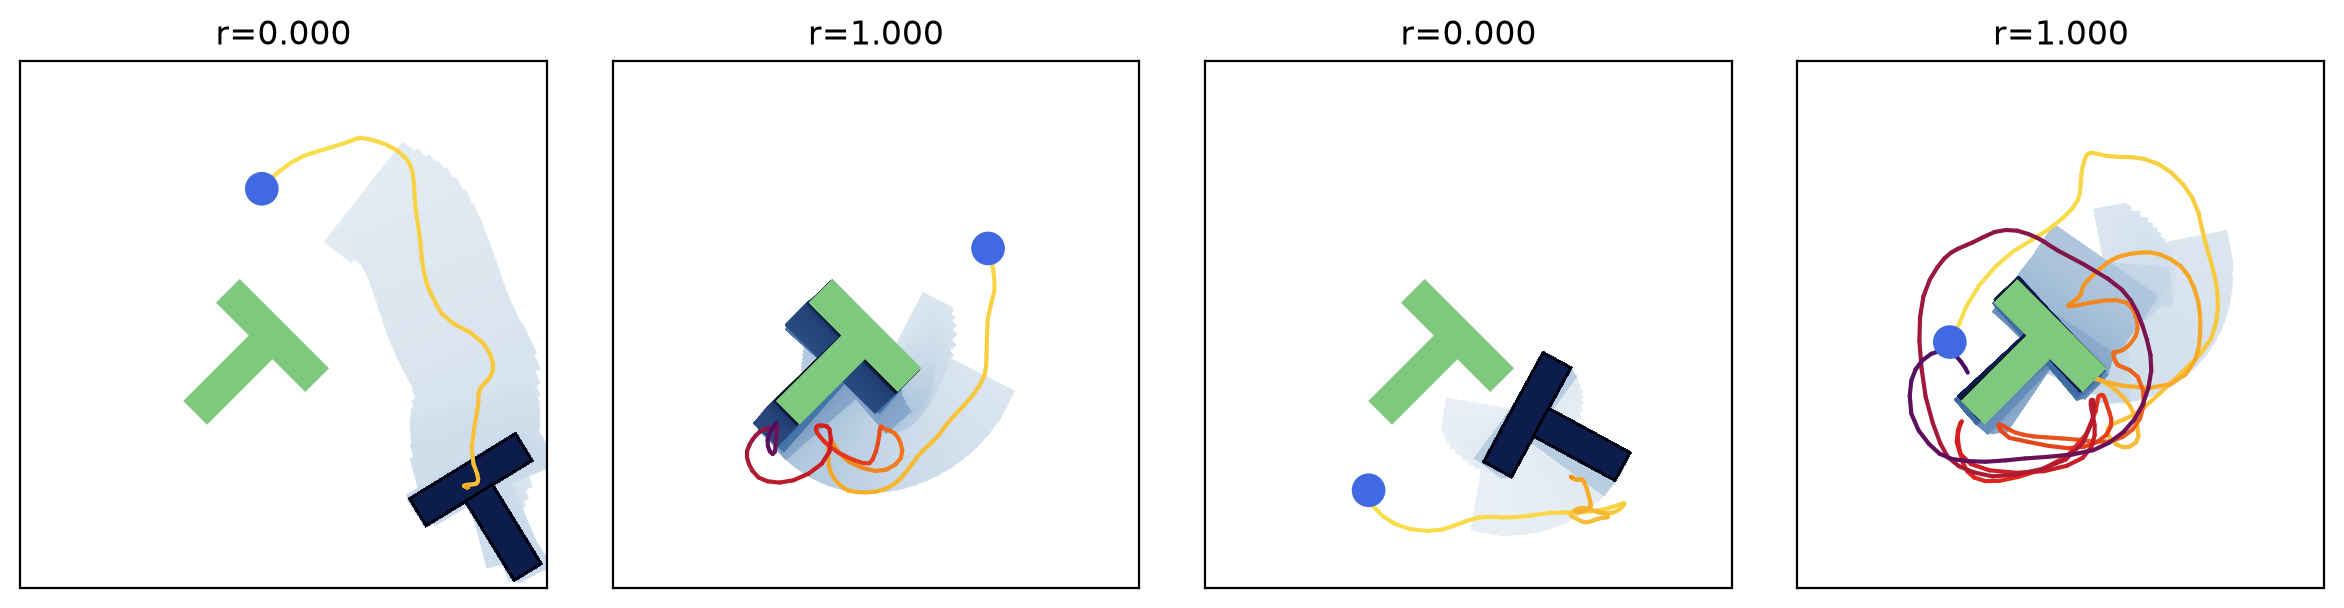
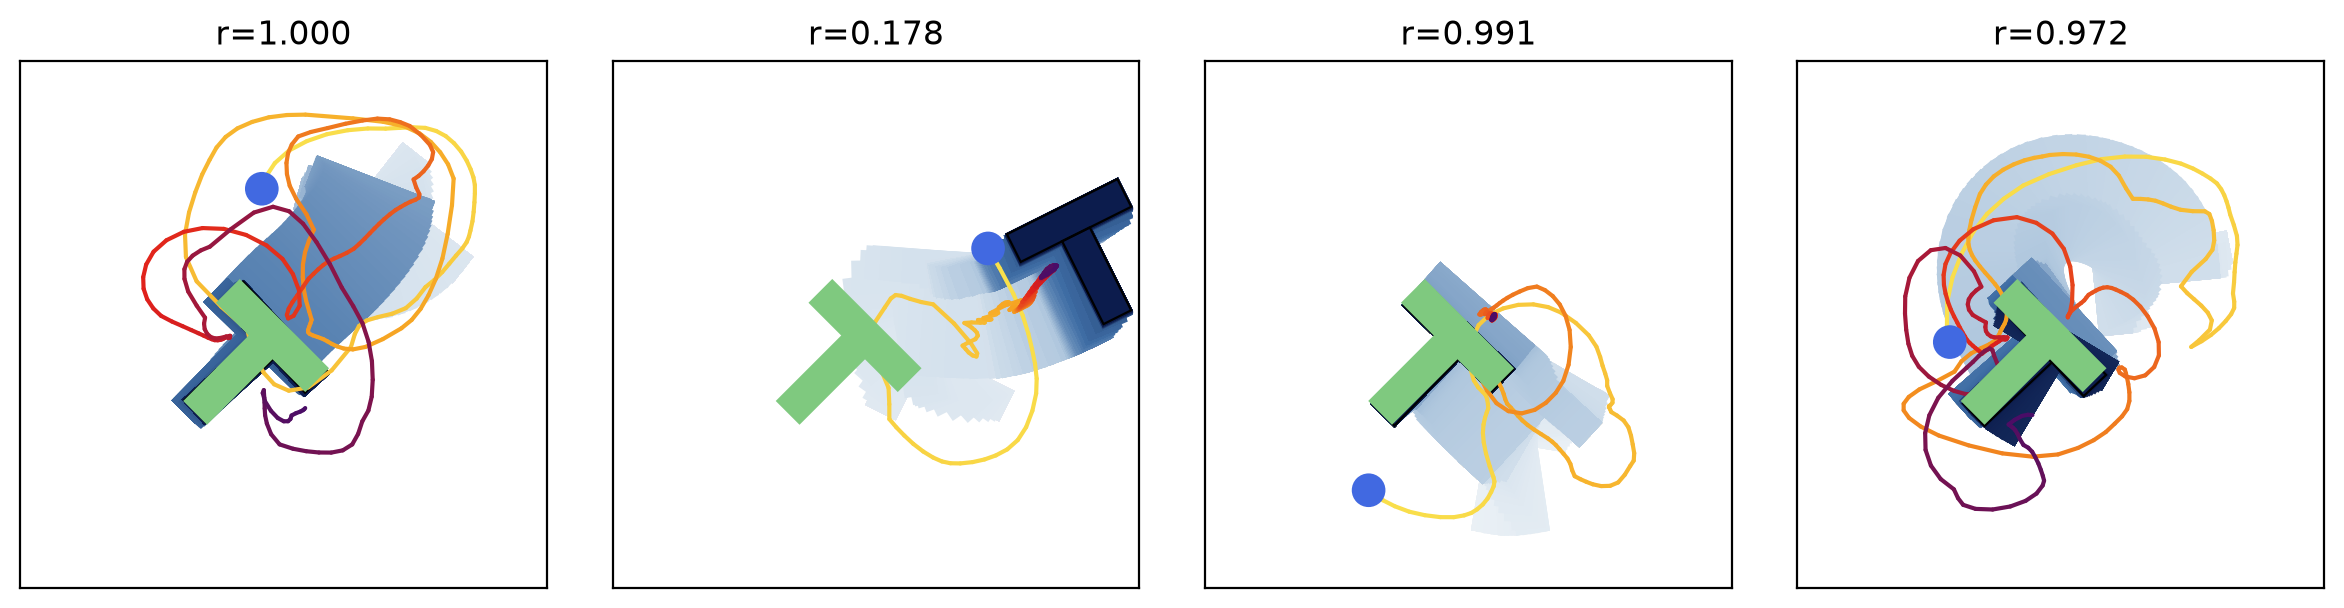
Ran Push-T ablation over different action horizons.

diff --git a/ebp/networks/proposal_network.py b/ebp/networks/proposal_network.py
@@ -4,7 +4,7 @@ from typing import Protocol
 import numpy as np
 import torch
 import torch.nn as nn
-from torch.distributions import LowRankMultivariateNormal, Normal
+from torch.distributions import Normal
 
 from .models import MLP, MLPConfig, ConvMLP, ConvMLPConfig
 
@@ -21,39 +21,20 @@ class ProposalNetwork(Protocol):
 
 @dataclasses.dataclass(frozen=True)
 class GaussianProposalConfig:
-    """Config for the Gaussian proposal q_xi(y | x)."""
+    """Config for the diagonal-Gaussian proposal q_xi(y | x)."""
 
     obs_dim: int
     act_dim: int
     hidden_dim: int = 256
     hidden_depth: int = 2
     log_std_init: float = 0.0
-    cov_rank: int = 0
-    """Rank of a low-rank covariance term. 0 (default) = diagonal covariance.
-
-    With action chunking the action is a whole trajectory, whose dimensions are
-    strongly correlated: for Push-T at prediction_horizon=16 (a 32-D action) the
-    mean |off-diagonal correlation| is 0.49 and 90%/99% of the variance lives in
-    just 2/6 of the 32 dimensions. A diagonal Gaussian assumes independence, so
-    it over-covers that manifold by ~85 nats of entropy and draws negatives that
-    are trivially far from the data -- the contrastive loss then saturates (the
-    chunked IBC/R-NCE train loss collapses toward 0) and stops shaping the
-    energy where it matters. A rank-k term Sigma = diag + U U^T captures the
-    correlated directions (fitting real chunks ~60 nats/sample better at k=4),
-    so negatives stay on-manifold and hard. This is the cheap closed-form
-    stand-in for the normalizing-flow proposal Singh et al. use.
-    """
 
 
 class GaussianProposal(nn.Module):
-    """A learned Gaussian proposal q_xi(y | x): state-conditioned mean mu(x) from
-    an MLP, plus a single GLOBAL learnable covariance shared across all x. This
-    is the stable-baselines3 ``DiagGaussianDistribution`` + actor pattern.
-
-    With ``cov_rank=0`` the covariance is diagonal (log_std only). With
-    ``cov_rank=k>0`` it is diag(std^2) + U U^T for a learnable (act_dim, k)
-    factor U, which lets the proposal model correlations between action
-    dimensions -- see GaussianProposalConfig.cov_rank.
+    """A learned diagonal-Gaussian proposal q_xi(y | x): state-conditioned mean
+    mu(x) from an MLP, plus a single GLOBAL learnable log_std (one per action
+    dim), shared across all x. This is the stable-baselines3
+    ``DiagGaussianDistribution`` + actor pattern.
 
     Satisfies the ``ProposalNetwork`` Protocol (``sample``) and additionally
     exposes ``log_prob`` so the R-NCE trainer can score candidates.
@@ -62,16 +43,9 @@ class GaussianProposal(nn.Module):
     def __init__(self, config: GaussianProposalConfig) -> None:
         super().__init__()
         self.act_dim = config.act_dim
-        self.cov_rank = config.cov_rank
         self.mlp = MLP(MLPConfig(config.obs_dim, config.hidden_dim, config.act_dim, config.hidden_depth))
 
         self.log_std = nn.Parameter(torch.ones(self.act_dim) * config.log_std_init)
-        if self.cov_rank > 0:
-            # Small init so the proposal starts near the diagonal solution and
-            # grows the correlated directions only as the MLE step wants them.
-            self.cov_factor = nn.Parameter(
-                torch.randn(self.act_dim, self.cov_rank) * 0.01
-            )
 
     @property
     def mean_net(self) -> nn.Module:
@@ -80,23 +54,14 @@ class GaussianProposal(nn.Module):
         the whole action range, quietly widening the negative sampler)."""
         return self.mlp
 
-    def _distribution(self, mean: torch.Tensor):
-        """Gaussian over the action, batched over `mean`'s leading dims."""
-        std = self.log_std.exp()
-        if self.cov_rank > 0:
-            return LowRankMultivariateNormal(
-                loc=mean,
-                cov_factor=self.cov_factor.expand(*mean.shape[:-1], self.act_dim, self.cov_rank),
-                cov_diag=(std ** 2).expand_as(mean),
-            )
-        return Normal(mean, std)
-
     def sample(self, x: torch.Tensor, num_samples: int) -> torch.Tensor:
         """Draw `num_samples` proposal samples per row of x.
         Returns (B, num_samples, act_dim)  <-- MUST match _sample_uniform's shape.
         """
         mean = self.mlp(x)
-        samples = self._distribution(mean).rsample(sample_shape=(num_samples,))
+        std = self.log_std.exp()
+        dist = Normal(mean, std)
+        samples = dist.rsample(sample_shape=(num_samples,))
         return samples.permute(1, 0, 2).detach()
 
     def log_prob(self, x: torch.Tensor, y: torch.Tensor) -> torch.Tensor:
@@ -104,10 +69,6 @@ class GaussianProposal(nn.Module):
         y:  (B, N, act_dim)   ->  returns (B, N).
         """
         mean = self.mlp(x).unsqueeze(1)  # add in dimension for broadcasting
-        if self.cov_rank > 0:
-            # LowRankMultivariateNormal is multivariate: it already sums over the
-            # event (action) dim, so no trailing .sum(-1) here.
-            return self._distribution(mean.expand_as(y)).log_prob(y)
         std = self.log_std.exp()
         dist = Normal(mean, std)
         log_prob = dist.log_prob(y)

diff --git a/plot_push_t.py b/plot_push_t.py
@@ -1,35 +1,6 @@
 '''
 Roll out a trained Push-T policy in a few initial conditions and visualize the
 trajectories as one row of panels, saved to images/push_t_<method>.png.
-
-python plot_push_t.py --method ibc --checkpoint models/ibc_push_t_train.pt \
-    --stochastic_optimizer langevin --inference_samples 1024
-
-Styled after the rollout visualizations in Singh et al. (arXiv:2309.05803),
-Table 5: the desired goal configuration is filled green, and the block (with
-the agent circle) is drawn at every timestep, color coded by time from the
-lightest shade at the beginning of the trajectory to the darkest at the end.
-
-With --multimodal, instead mirrors Diffusion Policy's Figure 3 (multimodal
-behavior): a single symmetric initial condition where the block already
-overlaps the goal along the block's own symmetry axis (a short push, no
-rotation) and the agent starts centered above the tip of both Ts. The agent
-must go around the block on either the left or the right, a perfectly
-symmetric two-mode choice (--seeds is ignored). The policy is rolled out
---num_rollouts times for --multimodal_steps steps, overlaying the block poses
-with lightest-to-darkest time shading and the agent trajectories as
-yellow-orange-red-purple heatmap lines; the initial agent position is marked
-with a blue dot. Stochastic (IBC) inference spreads over behavior modes while
-a deterministic MSE policy traces a single path. Saved to
-images/push_t_<method>_multimodal.png.
-
-Rollouts are closed loop at 10 Hz for up to --max_steps steps (Diffusion
-Policy's eval budget), stopping early on success (95% goal coverage). The
-observation history is left-padded by repeating the first observation, matching
-Diffusion Policy's eval-time stacking; training windows instead drop the first
-sequence_length - 1 steps of each episode, so only a rollout's first step is
-slightly off-distribution. IBC inference runs the stochastic optimizer once per
-step; on CPU the langevin optimizer is roughly 10x slower than on GPU.
 '''
 
 import argparse
@@ -53,19 +24,16 @@ from train import (
 
 IMAGES_DIR = os.path.join(os.path.dirname(os.path.abspath(__file__)), "images")
 
-# The T block's two rectangles in its local frame, from PushTEnv.add_tee
-# (scale=30, length=4). World frame: position + R(angle) @ v, y-axis down.
+
 TEE_BAR = np.array([(-60.0, 0.0), (60.0, 0.0), (60.0, 30.0), (-60.0, 30.0)])
 TEE_STEM = np.array([(-15.0, 30.0), (15.0, 30.0), (15.0, 120.0), (-15.0, 120.0)])
 AGENT_RADIUS = 15.0
 
 GOAL_COLOR = "#7fc97f"
-# Block-pose shades: near-lightest blue-grey at the beginning, dark blue at the
-# end, so the block's transition over the trajectory is visible.
+
 TIME_CMAP = LinearSegmentedColormap.from_list(
     "time", ["#eef3f7", "#aec6dd", "#3f6ea5", "#0c1c4d"]
 )
-# Pusher-path heatmap (Diffusion Policy Fig. 3): yellow -> orange -> red -> purple.
 PUSHER_CMAP = LinearSegmentedColormap.from_list(
     "pusher", ["#f9e04c", "#f6a020", "#e0201b", "#4a0d67"]
 )
@@ -86,14 +54,7 @@ def multimodal_initial_state(
     push_distance: float = 40.0,
     agent_offset: float = 30.0,
 ) -> np.ndarray:
-    """Symmetric initial condition for the multimodality figure.
 
-    The block sits push_distance below the goal along its own symmetry axis at
-    the goal's angle, so it already overlaps the goal and reaching it is a
-    short straight push with no rotation. The agent starts centered above the
-    tip of both Ts (past the top of the bar) and must go around the block on
-    either side to push it up to the goal.
-    """
     x, y, theta = goal_pose
     rotation = np.array(
         [[np.cos(theta), -np.sin(theta)], [np.sin(theta), np.cos(theta)]]
@@ -316,7 +277,10 @@ if __name__ == "__main__":
 
     fig.tight_layout()
     suffix = "_multimodal" if args.multimodal else ""
-    plot_path = os.path.join(IMAGES_DIR, f"push_t_{args.method}{suffix}.png")
+    # Include the action horizon so figures for different Tp/Ta don't overwrite
+    # each other (Tp=1 keeps the original unsuffixed filenames).
+    horizon = "" if args.prediction_horizon == 1 else f"_p{args.prediction_horizon}a{args.action_horizon}"
+    plot_path = os.path.join(IMAGES_DIR, f"push_t_{args.method}{horizon}{suffix}.png")
     fig.savefig(plot_path, format="png", dpi=200, bbox_inches="tight")
     plt.close(fig)
     print(f"Saved plot to images/{os.path.basename(plot_path)}")

diff --git a/train.py b/train.py
@@ -175,7 +175,7 @@ def load_model(
 
 
 def load_proposal(task: str, sequence_length: int = 2, coord_conv: bool = False,
-                  prediction_horizon: int = 1, cov_rank: int = 0):
+                  prediction_horizon: int = 1):
     """Build the diagonal-Gaussian proposal q_xi(y | x) for R-NCE, sized per task.
 
     Vector-observation tasks (push_t, make_moons) get an MLP-mean GaussianProposal.
@@ -203,8 +203,7 @@ def load_proposal(task: str, sequence_length: int = 2, coord_conv: bool = False,
         raise ValueError("Unsupported task: `{}`".format(task))
 
     config = GaussianProposalConfig(obs_dim=obs_dim, act_dim=action_dim,
-                                    hidden_dim=256, hidden_depth=2, log_std_init=0.0,
-                                    cov_rank=cov_rank)
+                                    hidden_dim=256, hidden_depth=2, log_std_init=0.0)
     return GaussianProposal(config)
 
 
@@ -334,16 +333,6 @@ if __name__ == "__main__":
         "R-NCE value in load_stochastic_optimizer when unset).",
     )
     parser.add_argument(
-        "--cov_rank",
-        type=int,
-        default=0,
-        help="R-NCE proposal covariance rank. 0 (default) = diagonal. k>0 uses "
-        "diag + U U^T with U of rank k, letting the proposal model correlations "
-        "between action dimensions -- worth ~60 nats/sample on Push-T action "
-        "chunks at k=4. Checkpoints get an _r<k> suffix so they coexist with "
-        "the diagonal ones. See GaussianProposalConfig.cov_rank.",
-    )
-    parser.add_argument(
         "--l2_weight",
         type=float,
         default=0.0,
@@ -425,7 +414,6 @@ if __name__ == "__main__":
         proposal = load_proposal(
             args.task, sequence_length=args.sequence_length,
             coord_conv=args.coord_conv, prediction_horizon=args.prediction_horizon,
-            cov_rank=args.cov_rank,
         )
         # Inference is always Langevin for R-NCE (Alg. 2), regardless of the CLI flag.
         stochastic_optimizer = load_stochastic_optimizer(
@@ -457,10 +445,6 @@ if __name__ == "__main__":
     # Encode the action-chunk length in the name (Tp > 1) so chunked models don't
     # clobber the single-step checkpoint and the two can coexist.
     suffix = f"_p{args.prediction_horizon}" if args.prediction_horizon > 1 else ""
-    # A correlated-covariance proposal is a different architecture, so its
-    # checkpoint must not overwrite the diagonal one.
-    if args.method == "rnce" and args.cov_rank > 0:
-        suffix += f"_r{args.cov_rank}"
     checkpoint = f"{args.method}_{os.path.splitext(args.train_dataset)[0]}{suffix}.pt"
     trainer.save(os.path.join(MODELS_DIR, checkpoint))
     print(f"Saved model to models/{checkpoint}")

diff --git a/plot_make_moons.py b/plot_make_moons.py
@@ -1,20 +1,5 @@
 '''
-Plot a trained make_moons policy: predicted actions over the held-out strip and
-(for energy-based methods) the learned energy landscape.
-
-python plot_make_moons.py --method ibc \
-    --checkpoint models/ibc_make_moons_n_1000_seed_0.pt \
-    --train_dataset make_moons_n_1000_seed_0.npz \
-    --test_dataset make_moons_test.npz
-
-The predictions figure scatters the training data in grey and, for each test x1
-in the held-out strip, the model's predicted x2 sampled --num_samples times. An
-MSE policy collapses to one branch of the moons; an energy-based policy (IBC,
-R-NCE) spreads across both. The energy figure (energy-based methods only) shows
-the learned energy over the (x1, x2) plane with the training data overlaid.
-
-Figures are saved to images/{method}_make_moons_predictions.png and
-images/{method}_make_moons_energy.png.
+Plot a trained make_moons policy.
 '''
 
 import argparse
@@ -45,8 +30,7 @@ def sample_actions(model, states, method, stochastic_optimizer, device,
                    num_samples):
     """Return (num_samples, N) predicted x2 for each state.
 
-    MSE is deterministic (its rows are identical); the stochastic optimizer
-    resamples candidates each call, so IBC/R-NCE spread over the modes.
+    MSE is deterministic, so we don't need to do multiple trials per simulation.
     """
     model.eval()
     states = torch.from_numpy(states).to(device)

diff --git a/plot_coordinate_regression.py b/plot_coordinate_regression.py
@@ -1,16 +1,5 @@
 '''
-Plot coordinate regression predictions for a trained model, like
-https://github.com/kevinzakka/ibc/blob/main/plot.py.
-
-python plot_coordinate_regression.py --method mse \
-    --checkpoint models/mse_coordinate_regression_n_30_seed_0.pt \
-    --train_dataset coordinate_regression_n_30_seed_0.npz \
-    --test_dataset coordinate_regression_n_30_seed_1_test.npz
-
-Plots the train coordinates (black x) with their convex hull, and the ground
-truth test coordinates colored by the model's pixel error at that location
-(blue circles when the prediction is < 1 pixel off). Saves the figure to
-images/<checkpoint stem>.png.
+Adapted from Kevin Zakka: https://github.com/kevinzakka/ibc/blob/main/plot.py.
 '''
 
 import argparse
@@ -95,7 +84,6 @@ if __name__ == "__main__":
     model = load_model(args.task, args.method, coord_conv=args.coord_conv).to(device)
     model.load_state_dict(checkpoint["model"])
 
-    # R-NCE inference warm-starts Langevin from the checkpointed proposal (Alg. 2).
     proposal = None
     optimizer_name = args.stochastic_optimizer
     if args.method == "rnce":

diff --git a/plot_make_moons_energy_slice.py b/plot_make_moons_energy_slice.py
@@ -1,25 +1,3 @@
-'''
-make_moons energy diagnostics at a single observation (default s = 0.4, inside
-the held-out bimodal strip), where the state maps to two valid actions (the two
-moons). Two 2-panel animations (left: the (state, action) plane with training
-data; right: the energy slice E(s, x2)), where action samples descend the energy
-in tandem and converge onto both moons -- the two modes an MSE regressor cannot
-represent:
-
-1. images/make_moons_energy_slice.gif -- IBC, initialized UNIFORMLY. IBC's energy
-   is trained with uniform negatives, so it is valid across the whole action
-   range and a uniform init flows to the minima.
-
-2. images/make_moons_rnce_energy_slice.gif -- R-NCE, warm-started from the learned
-   proposal q(a | s) (Alg. 2); the proposal mean and 95% CI are drawn on the
-   energy panel to show where the chain initializes.
-
-Energies are min-max normalized so the wells sit in [0, 1]. Lower = preferred.
-
-python plot_make_moons_energy_slice.py --train_dataset make_moons_n_1000_seed_0.npz \
-    --obs 0.4
-'''
-
 import argparse
 import os
 

diff --git a/README.md b/README.md
@@ -97,12 +97,14 @@ Policy rollouts on the Push-T task. Moving block is color coded by time (lightes
 
 Score is the mean episode score over 256 random initial conditions, where each episode's score is the maximum over time of `s = min(coverage / 0.95, 1)` (coverage = block-goal intersection area / block area). Reported as mean $\pm$ a 95% confidence interval (normal approximation), following Singh et al.
 
-Both action horizons are shown: $T_p$ is the number of actions predicted per step and $T_a$ the number executed before replanning. $T_p = T_a = 1$ is single-step control.
+$T_p$ is the number of actions predicted per step and $T_a$ the number executed before replanning.
 
-|                         | MSE | IBC | R-NCE |
-|-------------------------|-----|-----|-------|
-| $T_p=1,\ T_a=1$         | $0.246 \pm 0.039$ | $0.561 \pm 0.044$ | $\mathbf{0.628 \pm 0.041}$ |
-| $T_p=16,\ T_a=8$        | $\mathbf{0.632 \pm 0.054}$ | $0.142 \pm 0.021$ | $0.530 \pm 0.042$ |
+|                    | MSE | IBC | R-NCE |
+|--------------------|-----|-----|-------|
+| $T_p=1,\ T_a=1$    | $0.246 \pm 0.039$ | $0.570 \pm 0.044$ | $0.643 \pm 0.044$ |
+| $T_p=2,\ T_a=2$    | $0.478 \pm 0.056$ | $0.237 \pm 0.025$ | $\mathbf{0.772 \pm 0.041}$ |
+| $T_p=4,\ T_a=4$    | $0.667 \pm 0.052$ | $0.169 \pm 0.024$ | $0.613 \pm 0.049$ |
+| $T_p=16,\ T_a=8$   | $0.632 \pm 0.054$ | $0.149 \pm 0.022$ | $0.530 \pm 0.042$ |
 
 
 
